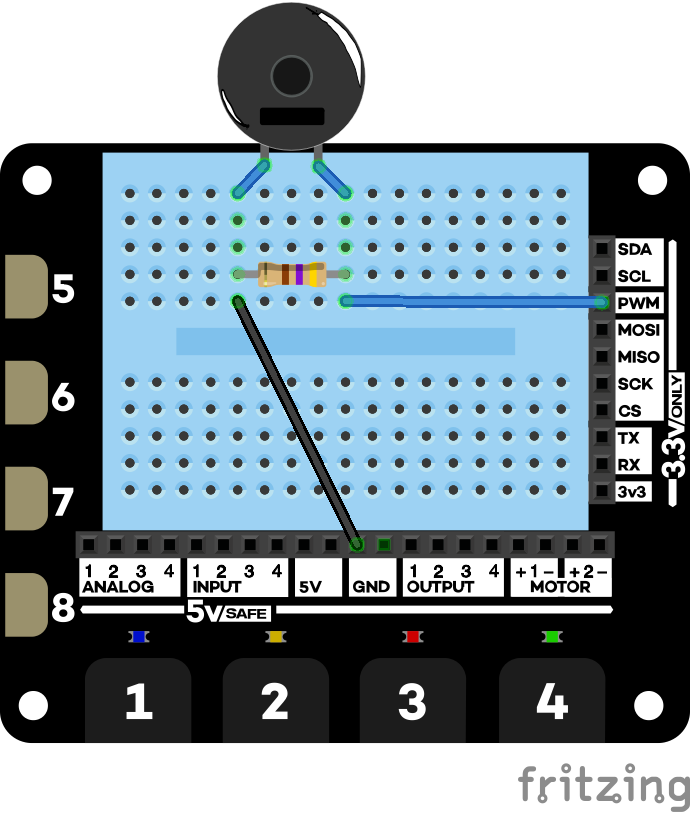
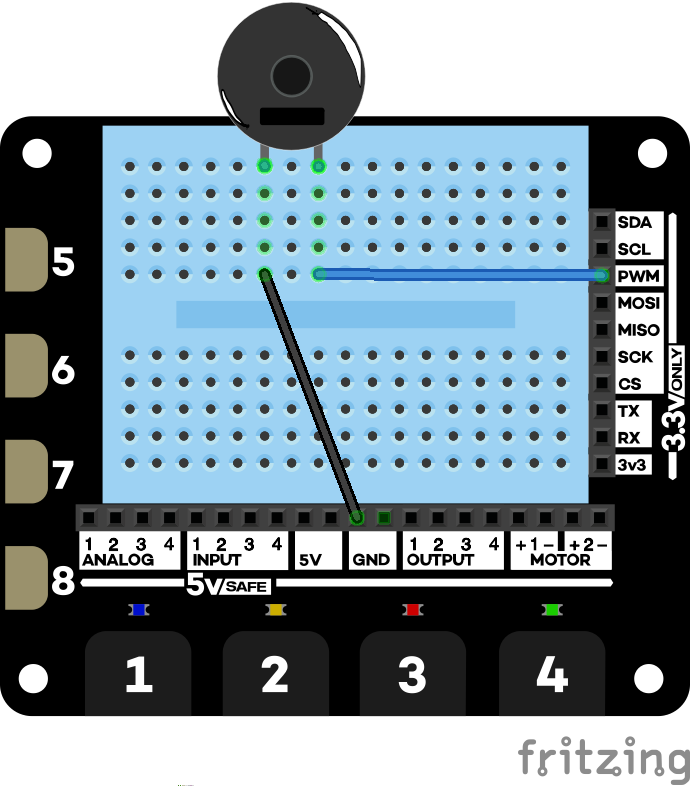
Minor edits

diff --git a/projects/traffic-lights/traffic-lights-01.py b/projects/traffic-lights/traffic-lights-01.py
@@ -18,14 +18,6 @@ ALL_LIGHTS = [RED, AMBER, GREEN]
 
 
 def show(duration, *lights):
-    """Turns on the specified LEDs, then waits for <duration>.
-
-    Lights not in the list of required lights will be turned off
-
-    Args:
-        duration: # of seconds to sleep after lights are turned on.
-        lights: a list of Explorer Hat LEDs to be turned on.
-    """
     for light in ALL_LIGHTS:
         if light in lights:
             light.on()

diff --git a/projects/traffic-lights/README.md b/projects/traffic-lights/README.md
@@ -8,28 +8,19 @@ It's based on UK style traffic lights.
  
 ### Components
 
-You will need:
+Version 1 uses the on-board LEDs, so you can only run it on the Explorer HAT pro.
 
-1. 1 red LED
-1. 1 yellow (amber) LED
-1. 1 green LED
-1. 3 red jumper wires
-1. 3 brown jumper wires
-1. 3 470 Ohm resistors (colour code Yellow Purple Brown)
+For version 2 you will need a buzzer; use the same wiring as in the earlier buzzer project
 
 ### Wiring
 
-![Traffic Light Wiring diagram](../../docs/images/traffic-lights-01_bb.png)
+![Traffic Light Wiring diagram](../buzzer/images/buzzer_bb.png)
 
 ### Run it
 
-in this directory, run `python3 traffic-lights-01.py `
+in this directory, run `python3 traffic-lights-02.py `
 
 When you've finished, type `Ctrl-C` to exit the program.
-
-## Versions 2 and 3
-
-The code is here; wiring diagrams to follow.
 
 
 
